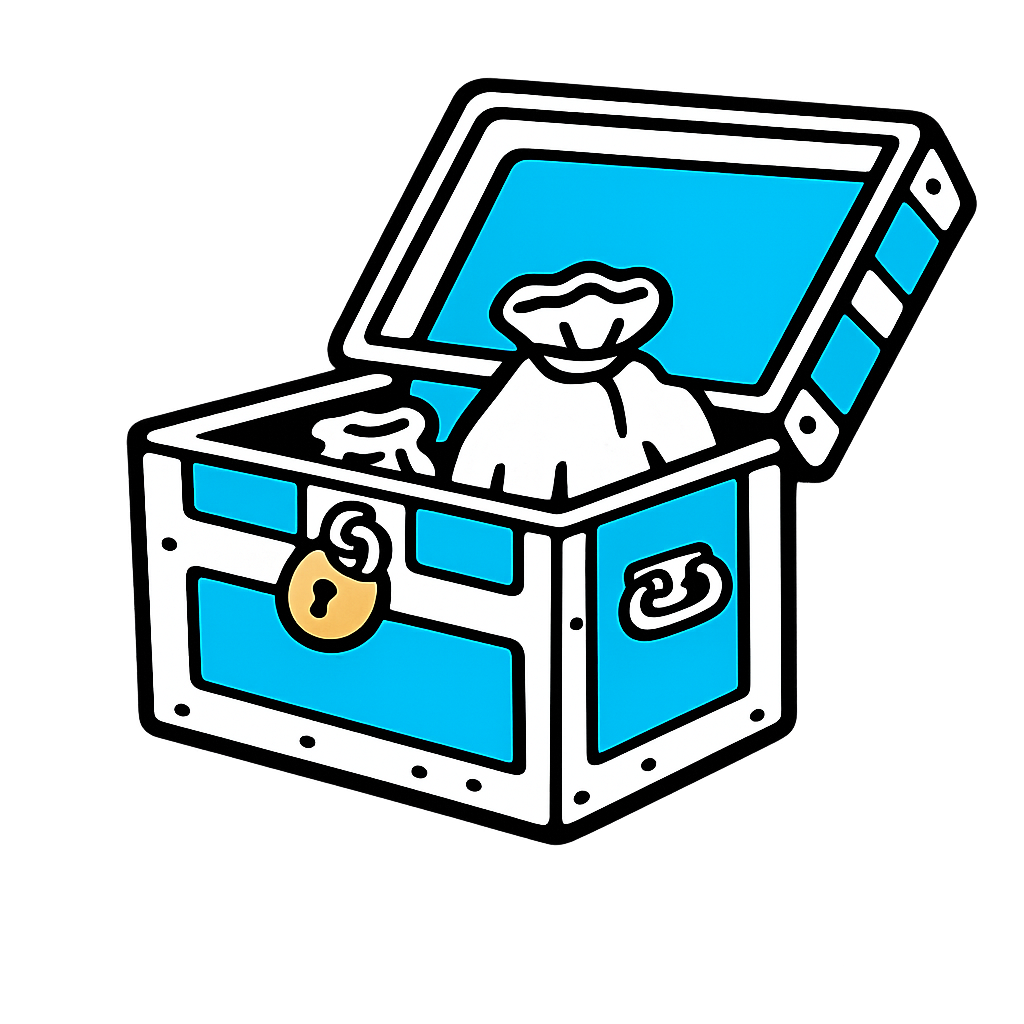
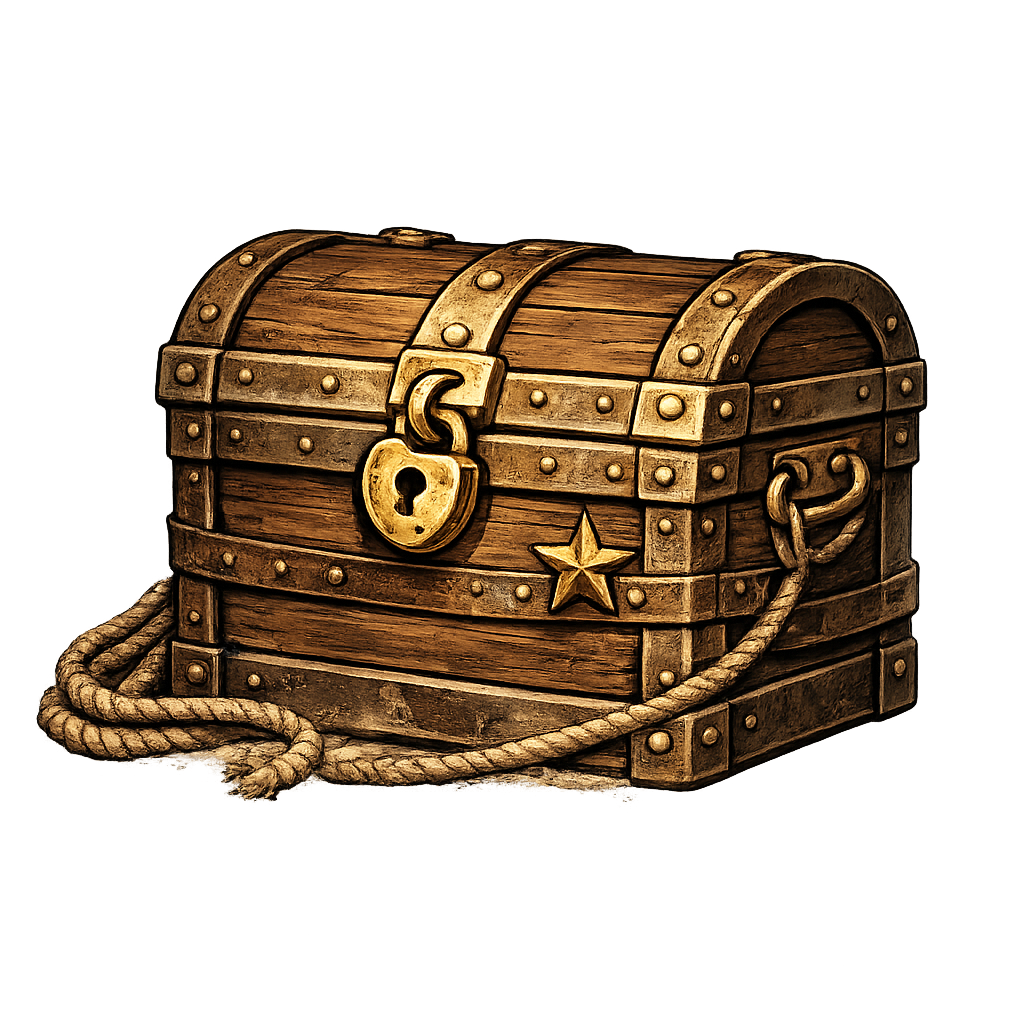
Finished spaces and player/card testing

diff --git a/src/MonopolyTests/MonopolyTests.java b/src/MonopolyTests/MonopolyTests.java
@@ -526,6 +526,8 @@ class MonopolyTests {
 	    customSettings2.setTheme(Theme.PIRATE);
 	    customSettings2.setOptionalBuying(false);
 	    controller.initializeGameSettings(customSettings2);
+	    customSettings2.setTheme(Theme.TUCSON);
+	    controller.initializeGameSettings(customSettings2);
 	}
 	
 	
